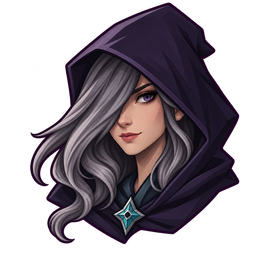
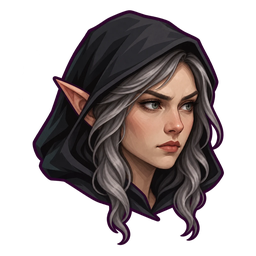
Зафиксировать нового маскота проекта

diff --git a/md/mascot.md b/md/mascot.md
@@ -1,0 +1,67 @@
+# Маскот DnD Share
+
+В проекте используется один канонический маскот: взрослая сереброволосая
+эльфийка в тёмном дорожном костюме. Она связывает бренд-портрет приложения и
+сюжетные обложки справочника; отдельного персонажа для favicon или шапки нет.
+
+## Канонический образ
+
+![Канонический образ маскота](assets/handbook-cover-mascot/canonical.webp)
+
+Неизменяемые признаки:
+
+- зрелое угловатое лицо, светлые серо-зелёные глаза и длинные заострённые уши;
+- длинные волнистые серебряные волосы;
+- почти чёрный угловатый капюшон и короткая мантия с круглой застёжкой;
+- многослойная тёмная туника, диагональная кожаная перевязь, пояс, небольшие
+  сумки, наручи, асимметричные серо-бирюзовые фалды и обмотанные сапоги;
+- глубокий сливовый контур и акценты;
+- детализированный 2D fantasy render с контролируемой cel-painted светотенью,
+  без фотореализма и живописного шума.
+
+Лицо, причёска, уши, капюшон, застёжка, основные слои костюма и палитра
+сохраняются между изображениями. Оружие, магия, поза, ракурс и выражение лица
+определяются конкретной сценой.
+
+## Библиотека поз и эмоций
+
+| Референс | Назначение |
+| --- | --- |
+| <img src="assets/handbook-cover-mascot/stealth-crouch.webp" width="220" alt="Маскот в скрытной стойке"> | Скрытность и наблюдение: низкая стойка, настороженный взгляд, сдержанное напряжение. |
+| <img src="assets/handbook-cover-mascot/agile-leap.webp" width="220" alt="Маскот в прыжке"> | Скорость и ловкость: открытая динамическая поза, азарт и уверенная улыбка. |
+| <img src="assets/handbook-cover-mascot/knowing-coin.webp" width="220" alt="Маскот с монетой"> | Общение и хитрость: расслабленная стойка, понимающая полуулыбка, один простой предмет в руке. |
+| <img src="assets/handbook-cover-mascot/startled-guard.webp" width="220" alt="Испуганный маскот"> | Опасность и уязвимость: защитный жест, широко раскрытые глаза и естественный испуг. |
+| <img src="assets/handbook-cover-mascot/arcane-casting.webp" width="220" alt="Маскот использует магию"> | Магия: сосредоточенный интерес, отражённый свет и один крупный поток энергии без читаемых рун. |
+
+Эти файлы задают допустимый диапазон пластики и эмоций, а не набор поз для
+буквальной вставки. Новую сцену строят от механики предмета и заново ставят
+персонажа в её перспективе, освещении и взаимодействии с окружением.
+
+## Использование на обложках
+
+- Сначала читают название, структурированные данные и описание способности,
+  черты или заклинания, затем выбирают конкретный момент, в котором механика
+  проявляется.
+- Канонический образ или библиотека поз являются единственным референсом
+  персонажа. Готовую обложку не используют как промежуточный character
+  reference для следующей обложки: такое повторное переиспользование искажает
+  анатомию, позу и выражение лица.
+- Поза и эмоция должны отвечать сцене. Не повторяют нейтрально-суровое лицо по
+  умолчанию; сосредоточенность, азарт, дружелюбная хитрость, страх, удивление и
+  другие состояния допустимы при сохранении личности.
+- Плотность деталей персонажа и окружения должна совпадать. Нельзя вставлять
+  упрощённую flat-cartoon фигуру в более детализированную сцену или маскировать
+  несоответствие контурным свечением.
+- На панорамной обложке сохраняют лицо, уши, руки, ключевой инструмент и эффект
+  внутри внешнего crop. Текст, читаемые руны, рамки, UI, логотипы и водяные
+  знаки в изображение не добавляют.
+- Магия может менять локальный свет и цвет эффекта, но не цвет волос, глаз,
+  кожи, капюшона и базового костюма.
+
+## Бренд-портрет
+
+`frontend/public/brand-mascot.webp` — компактный портрет головы и плеч этого же
+персонажа. `favicon-32.png`, `favicon.ico` и `apple-touch-icon.png` являются его
+уменьшенными производными и не проектируются как самостоятельные персонажи.
+Мастер и производные сохраняют настоящий alpha-канал и проверяются на светлом
+и тёмном фоне, включая размеры 64, 32 и 16 px.

diff --git a/md/frontend.md b/md/frontend.md
@@ -249,36 +249,24 @@ rail он одной компактной строкой показывает т
 `AppHeader`.
 
 Бренд **DnD Share** в desktop rail, мобильной шапке и favicon использует один
-растровый портрет маскота из `frontend/public/brand-mascot.webp`: тёмный
-угловатый капюшон, холодная пепельная прядь, один приглушённо-фиолетовый глаз и
-бирюзовая четырёхлучевая руна. `favicon-32.png`, `favicon.ico` и
-`apple-touch-icon.png` являются уменьшенными производными этого мастер-знака и
-не редактируются как самостоятельные варианты. SVG-аппроксимация маскота не
-используется: она слишком сильно упрощает лицо и характер персонажа.
+растровый портрет сереброволосой эльфийки из
+`frontend/public/brand-mascot.webp`: угловатый почти чёрный капюшон, длинные
+серебряные пряди, светлые серо-зелёные глаза, заострённое ухо и глубокий
+сливовый контур. Это тот же персонаж, который появляется на сюжетных обложках
+справочника, а не отдельный бренд-маскот. `favicon-32.png`, `favicon.ico` и
+`apple-touch-icon.png` являются уменьшенными производными мастер-портрета и не
+редактируются как самостоятельные варианты. SVG-аппроксимация не используется:
+она слишком сильно упрощает лицо и характер персонажа.
 
 ### Маскот DnD Share
 
-Канонический маскот — взрослая проводница по справочнику в упрощённой
-flat-cartoon стилистике. Её постоянные признаки: почти чёрный баклажановый
-угловатый капюшон с одной асимметричной складкой, холодные пепельно-графитовые
-волосы поверх левого глаза, один видимый дымчато-аметистовый глаз, серо-синяя
-туника, винно-коричневая кожа и бирюзовая четырёхлучевая руна с тёмным центром.
-Не возвращаем розовые блики в волосы, не делаем глаз неоновым и не заменяем
-руну обычным кристаллом.
-
-Основной полный образ — без оружия, с нейтральной открытой позой и упрощённым
-на 25–30% набором ремней и сумок. Для сюжетных обложек позу и действие можно
-менять, но лицо, видимую сторону глаза, силуэт капюшона, руну и базовую палитру
-нужно сохранять. Маскот может быть проводником, наблюдателем или участником
-сцены, но не обязан появляться на каждой обложке и не должен превращать разные
-предметы справочника в одну повторяющуюся композицию.
-
-Компактный бренд-знак — отдельный растровый портрет головы и плеч, а не
-уменьшенная полноразмерная иллюстрация. Он использует крупное лицо, компактный
-силуэт капюшона, широкие пряди и минимум мелких деталей. Мастер хранится с
-настоящим прозрачным alpha-каналом и проверяется на тёмном фоне в размерах 64,
-32 и 16 px; в favicon не добавляют оружие, текст, мелкие ремни, рамку или
-фоновую сцену.
+Канонический образ, неизменяемые признаки, библиотека поз и правила для
+сюжетных обложек описаны в [`md/mascot.md`](./mascot.md). Компактный
+`brand-mascot.webp` остаётся самостоятельной композицией головы и плеч, но не
+самостоятельным персонажем: он сохраняет лицо, волосы, ухо, капюшон и палитру
+полноразмерного маскота. Мастер хранится с настоящим прозрачным alpha-каналом и
+проверяется на светлом и тёмном фоне в размерах 64, 32 и 16 px; в favicon не
+добавляют оружие, магию, текст, мелкие ремни, рамку или фоновую сцену.
 
 Действие **«Аккаунт»** находится в меню профиля непосредственно над выходом и
 ведёт на `/account`. Страница имеет две доступные keyboard-вкладки: смена пароля

diff --git a/md/features/items.md b/md/features/items.md
@@ -218,6 +218,16 @@ handbook list and detail header.
   then install both slots only through MCP `handbook_item_set_system_image`
   with `preservePrevious=true` when replacing an existing asset.
 
+When the recurring DnD Share mascot appears on a cover, her canonical identity,
+costume, emotion range and reusable pose references are defined in
+[`md/mascot.md`](../mascot.md). That character contract overrides generic
+character-design choices but does not change the `1600×640` cover geometry,
+storage workflow or content restrictions above. Build each scene from the item
+mechanic and the canonical mascot reference; do not use another finished cover
+as an intermediate character reference. Match the mascot and environment at
+the same detail density, and choose an expression specific to the scene instead
+of repeating the same neutral or stern face.
+
 ### Static spell rune art direction
 
 Spell icons form one set of **static magical runes**. They use the same visual
